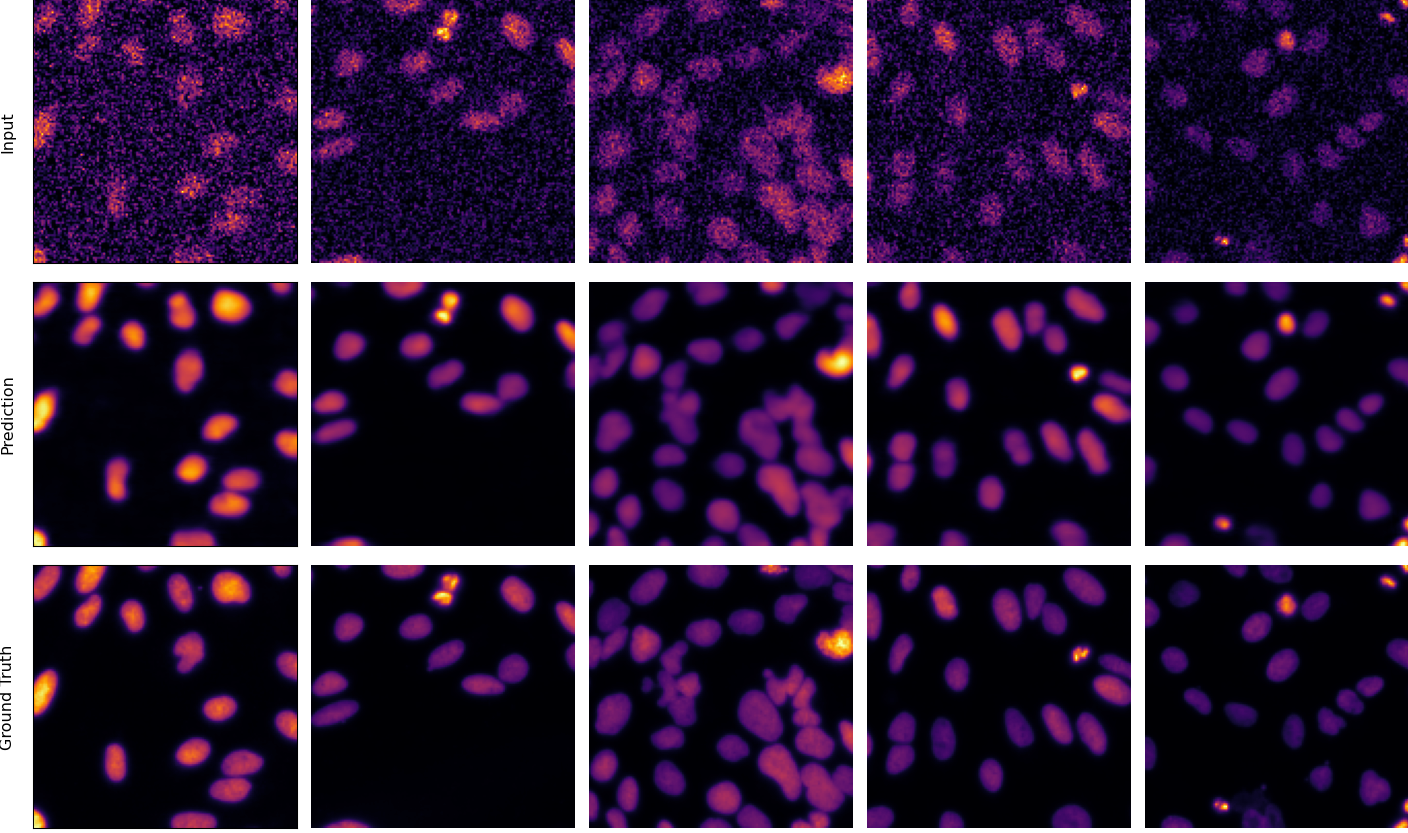
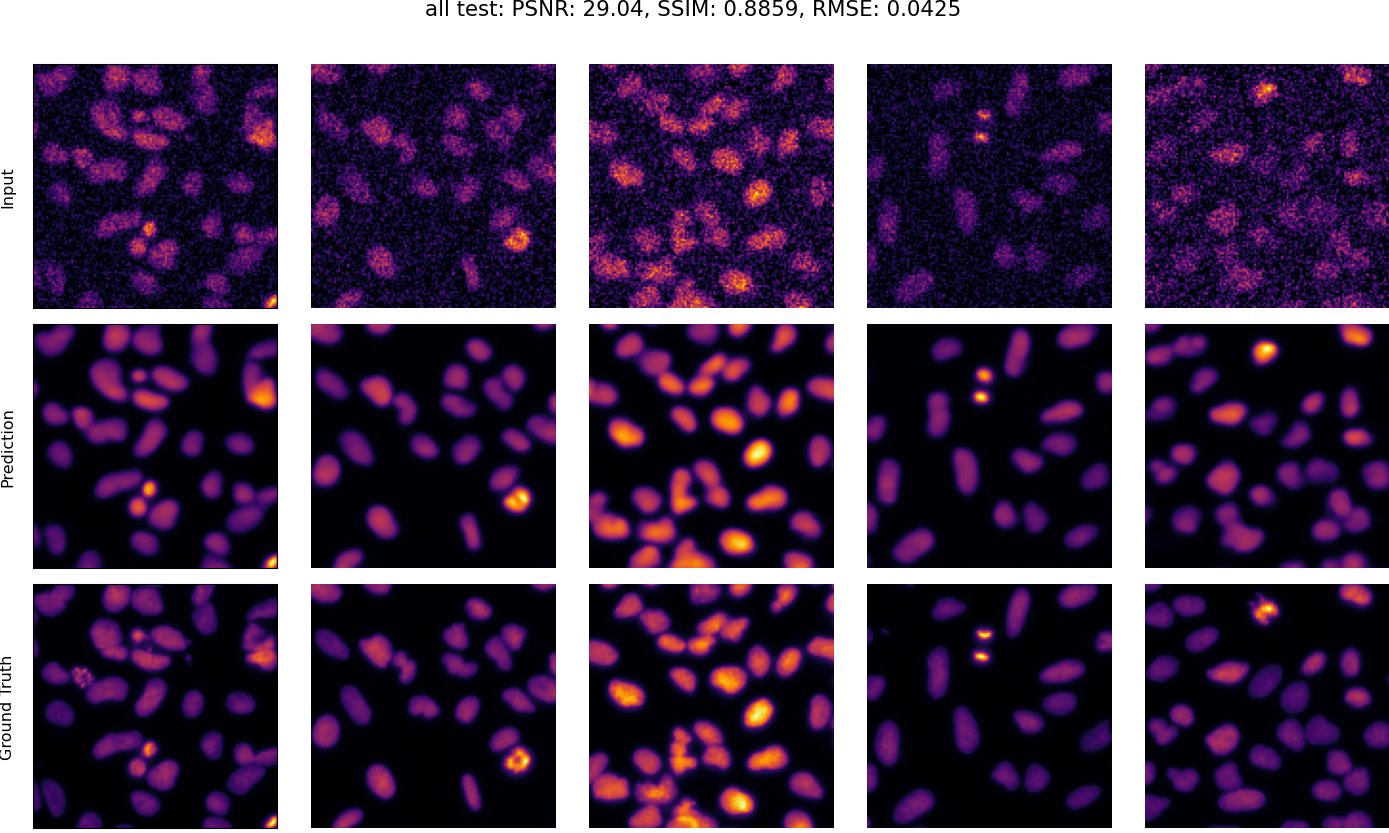
eval metrics

diff --git a/util/utils.py b/util/utils.py
@@ -4,34 +4,7 @@ import matplotlib.pyplot as plt
 import glob
 import random
 import argparse
-    
-# visualization for two images
-def subShow3(IMG1, IMG2, IMG3, color='inferno'):
-    # plt.figure(figsize=(2, 3), dpi=250)
-    
-    plt.subplot(1,3,1)
-    plt.imshow(IMG1, cmap=color)
-    plt.axis('off')
-    
-    plt.subplot(1,3,2)
-    plt.imshow(IMG2, cmap=color)
-    plt.axis('off')
-    
-    plt.subplot(1,3,3)
-    plt.imshow(IMG3, cmap=color)
-    plt.axis('off')
-    plt.show()
-    
-def subShow(IMG1, IMG2, color='inferno'):
-    plt.figure()
-    plt.subplot(1,2,1)
-    plt.imshow(IMG1, cmap=color)
-    plt.subplot(1,2,2)
-    plt.imshow(IMG2, cmap=color)
-    plt.show()
-    plt.close()
-    
-    
+     
 def dict_to_namespace(config):
     """
     Converts a dictionary to a namespace object.
@@ -55,50 +28,18 @@ def multi_input(w_img, o_img):
     
     return [w_0, w_2, w_4], [o_0, o_2, o_4]
 
-def save_svg(image_stack, domain, kind, path):
-    # Define the path where you want to save the SVG files
-    output_path = path
-    os.makedirs(output_path, exist_ok=True)
-
-    # Loop through the image stack and save each element as an SVG file
-    for i in range(image_stack.shape[0]):
-        image = image_stack[i, :, :, 0]
-
-        plt.figure(figsize=(1.28, 1.28), dpi=300)  # Set figsize and dpi to match the 128x128 size
-        plt.imshow(image, cmap='inferno')
-        plt.axis('off')
-        svg_filename = os.path.join(output_path, f"{str(kind)}_{i:03d}_{str(domain)}.svg")
-        plt.savefig(svg_filename, format='svg', bbox_inches='tight', pad_inches=0)
-        plt.close()
-
-def save_3_levels(image_list, output_path, domain, kind):
-    
-    for i in range(len(image_list)):
-        image = image_list[i]
-        plt.figure(figsize=(1.28, 1.28), dpi=300)  # Set figsize and dpi to match the 128x128 size
-        plt.imshow(image, cmap='inferno')
-        plt.axis('off')
-        svg_filename = os.path.join(output_path, f"{str(kind)}_{i:03d}_{str(domain)}.svg")
-        plt.savefig(svg_filename, format='svg', bbox_inches='tight', pad_inches=0)
-    print('finish save')
-    
-def save_1_levels(image_list, output_path, domain, kind, color='inferno'):
-    
-    image = image_list[0]
-    plt.figure(figsize=(1.28, 1.28), dpi=300)  # Set figsize and dpi to match the 128x128 size
-    plt.imshow(image, cmap=color)
-    plt.axis('off')
-    svg_filename = os.path.join(output_path, f"{str(kind)}_{str(domain)}.svg")
-    plt.savefig(svg_filename, format='svg', bbox_inches='tight', pad_inches=0)
-    
-    print('finish save')
-    
-def save_grid_LM(pred_list, w_list, o_list, output_path, domain, NUM=5, color='inferno'):
+def save_grid_LM(pred_list, w_list, o_list, output_path, domain, eval_results, NUM=5, color='inferno'):
     num_images = NUM
     random_indices = random.sample(range(len(w_list)), num_images)
+    
+    # Format the title string using eval_results
+    title_str = f'all test: PSNR: {eval_results[0]:.2f}, SSIM: {eval_results[1]:.4f}, RMSE: {eval_results[2]:.4f}'
 
     fig, axes = plt.subplots(3, num_images, figsize=(num_images * 3, 9))
     
+    # Set the figure title
+    fig.suptitle(title_str, fontsize=16)
+
     for i, idx in enumerate(random_indices):
         axes[0, i].imshow(w_list[idx], cmap=color)
         axes[0, i].axis('off')
@@ -132,7 +73,7 @@ def save_grid_LM(pred_list, w_list, o_list, output_path, domain, NUM=5, color='i
             axes[2, i].xaxis.set_ticks([])  
             axes[2, i].xaxis.set_ticklabels([]) 
     
-    plt.tight_layout()
+    plt.tight_layout(rect=[0, 0, 1, 0.96])  # Adjust rect to make room for the title
     svg_filename = os.path.join(output_path, f"{str(domain)}.png")
     plt.savefig(svg_filename, bbox_inches='tight', pad_inches=0, dpi=96)
     plt.close()

diff --git a/test_DeBCR.py b/test_DeBCR.py
@@ -134,25 +134,6 @@ def test(args):
         
         
     #####
-    # save the results as fig
-    if args.save_fig and not args.whole_predict:
-        # save a random fig under path
-        fig_path = args.results_path + str(args.task_type) + '/'
-        
-        if not os.path.exists(fig_path):
-            os.makedirs(fig_path)
-        
-        if args.microscopy == 'LM':
-            save_grid_LM(pred_test_list[0], test_w_list[0], test_o_list[0], fig_path, str(args.task_type))
-            print('LM test results saved at:', fig_path)
-            
-        elif args.microscopy == 'EM':
-            save_grid_EM(pred_X_test_list[0], X_test_list[0], fig_path, str(args.task_type), NUM=10)
-            print('EM Test results saved at:', fig_path)
-            
-        else:
-            print('wrong microscopy restoration for saving')
-    
     # evaluation by the metrics
     if args.microscopy == 'EM':
         print('EM evaluation')
@@ -165,6 +146,27 @@ def test(args):
         print('Test performance(PSNR, SSIM, RMSE)', psnr_value.round(2), ssim_value.round(2), rmse.round(2))
     else:
         print('illegal microscopy for evaluation')
+
+    # save the results as fig
+    if args.save_fig and not args.whole_predict:
+        # save a random fig under path
+        fig_path = args.results_path + str(args.task_type) + '/'
+        
+        if not os.path.exists(fig_path):
+            os.makedirs(fig_path)
+        
+        if args.microscopy == 'LM':
+            eval_results = [psnr_value, ssim_value, rmse]
+            save_grid_LM(pred_test_list[0], test_w_list[0], test_o_list[0], fig_path, str(args.task_type), eval_results)
+            print('LM test results saved at:', fig_path)
+            
+        elif args.microscopy == 'EM':
+            save_grid_EM(pred_X_test_list[0], X_test_list[0], fig_path, str(args.task_type), NUM=10)
+            print('EM Test results saved at:', fig_path)
+            
+        else:
+            print('wrong microscopy restoration for saving')
+    
 
 if __name__ == "__main__":
     parser = argparse.ArgumentParser(description="DeBCR_tester")
